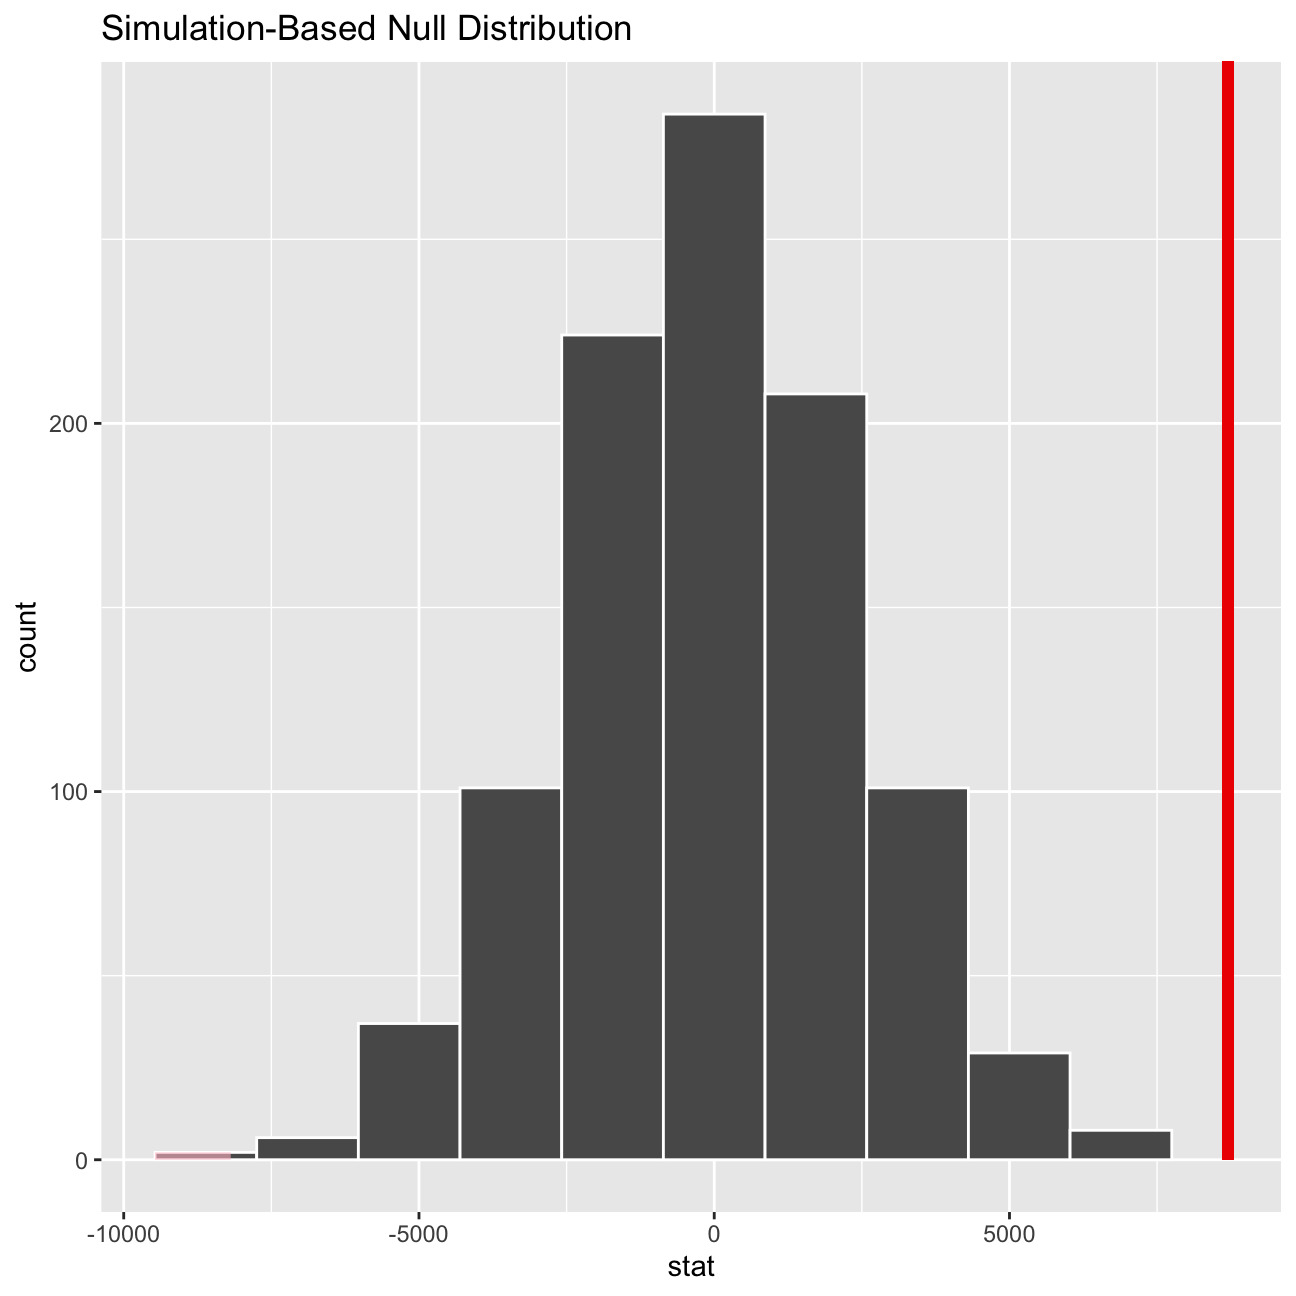
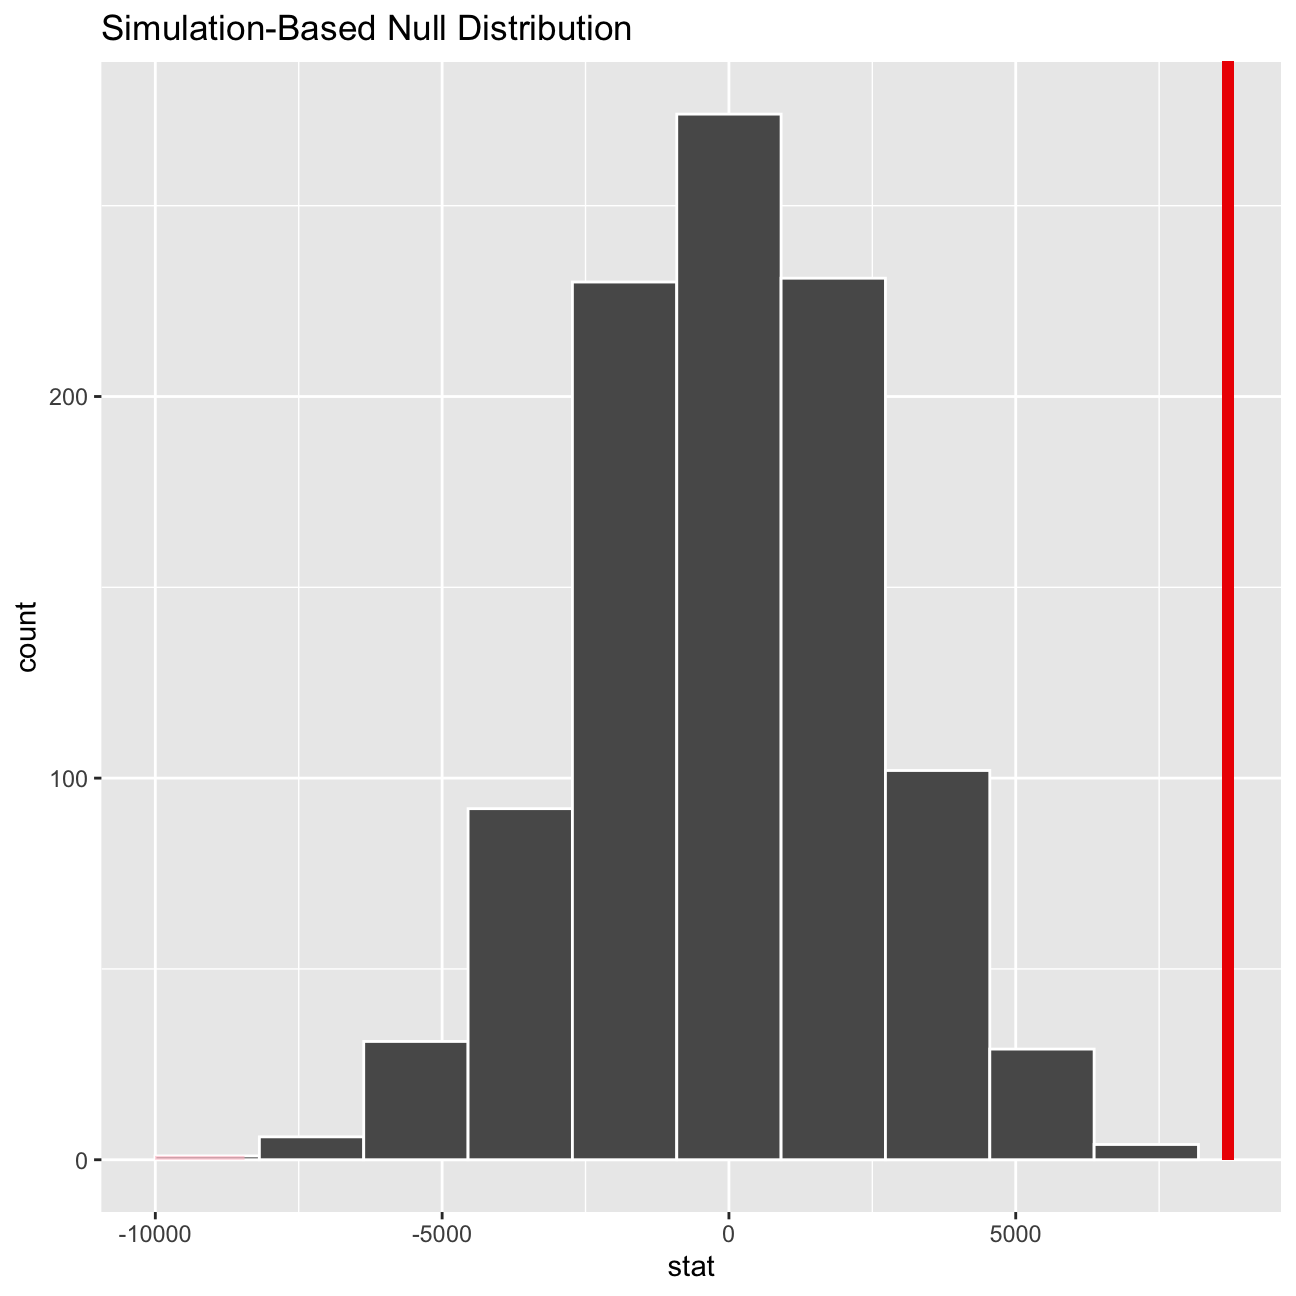
gh

diff --git a/public/projects/project4/index.html b/public/projects/project4/index.html
@@ -8,7 +8,7 @@
 	<meta name="description" content="Your description">
 	<meta name="author" content="Hanna">
 	<meta name="generator" content="Hugo 0.76.5" />
-	<title>Equal Pay Analysis &middot; Forty</title>
+	<title>Equal Pay Analysis 👩💼👨 &middot; Forty</title>
 	<!-- Stylesheets -->
 	
 	<link rel="stylesheet" href="/css/main.css"/>
@@ -75,7 +75,7 @@
                     <section id="one">
                         <div class="inner">
                             <header class="major">
-                                <h1>Equal Pay Analysis</h1>
+                                <h1>Equal Pay Analysis 👩💼👨</h1>
                             </header>
                             
                             
@@ -237,16 +237,16 @@ null_distribution</code></pre>
 <pre><code>## # A tibble: 1,000 x 2
 ##    replicate   stat
 ##        &lt;int&gt;  &lt;dbl&gt;
-##  1         1 -3899.
-##  2         2  -304.
-##  3         3  2076.
-##  4         4 -6800.
-##  5         5 -3833.
-##  6         6   572.
-##  7         7 -5833.
-##  8         8  -287.
-##  9         9  -304.
-## 10        10   374.
+##  1         1 -3998.
+##  2         2   167.
+##  3         3 -1568.
+##  4         4  3200.
+##  5         5 -5849.
+##  6         6  1969.
+##  7         7   663.
+##  8         8 -1791.
+##  9         9  2043.
+## 10        10  1167.
 ## # … with 990 more rows</code></pre>
 <pre class="r"><code># visualize the p-value 
 
@@ -413,16 +413,16 @@ null_distribution</code></pre>
 <pre><code>## # A tibble: 1,000 x 2
 ##    replicate   stat
 ##        &lt;int&gt;  &lt;dbl&gt;
-##  1         1 -3899.
-##  2         2  -304.
-##  3         3  2076.
-##  4         4 -6800.
-##  5         5 -3833.
-##  6         6   572.
-##  7         7 -5833.
-##  8         8  -287.
-##  9         9  -304.
-## 10        10   374.
+##  1         1 -3998.
+##  2         2   167.
+##  3         3 -1568.
+##  4         4  3200.
+##  5         5 -5849.
+##  6         6  1969.
+##  7         7   663.
+##  8         8 -1791.
+##  9         9  2043.
+## 10        10  1167.
 ## # … with 990 more rows</code></pre>
 <pre class="r"><code># Visualize p value 
 

diff --git a/public/projects/index.html b/public/projects/index.html
@@ -109,7 +109,7 @@
                         <div class="content">
                             <div class="inner">
                                 <header class="major">
-                                    <h3>Equal Pay Analysis</h3>
+                                    <h3>Equal Pay Analysis 👩💼👨</h3>
                                 </header>
                                 <p></p>
                                 <ul class="actions">
